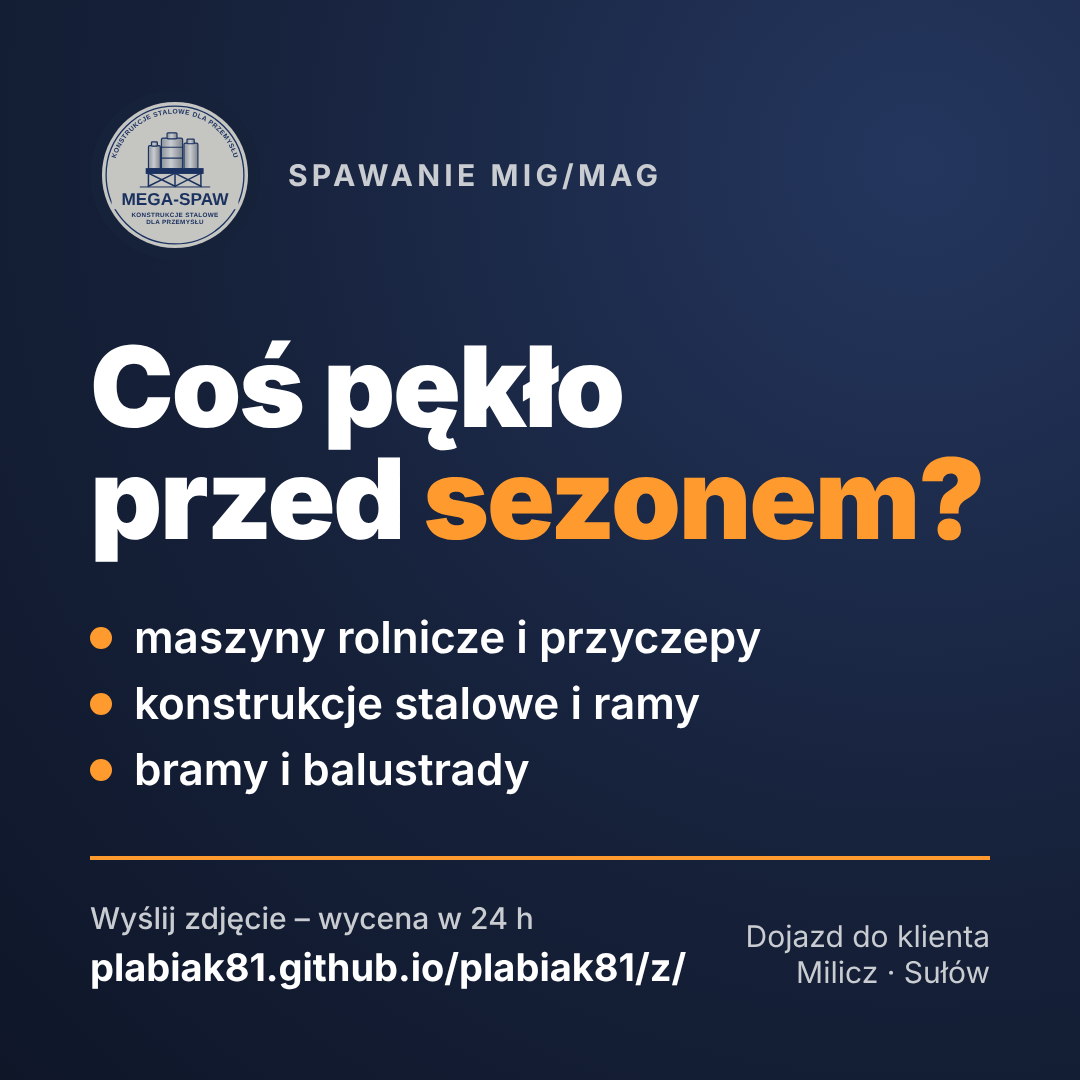
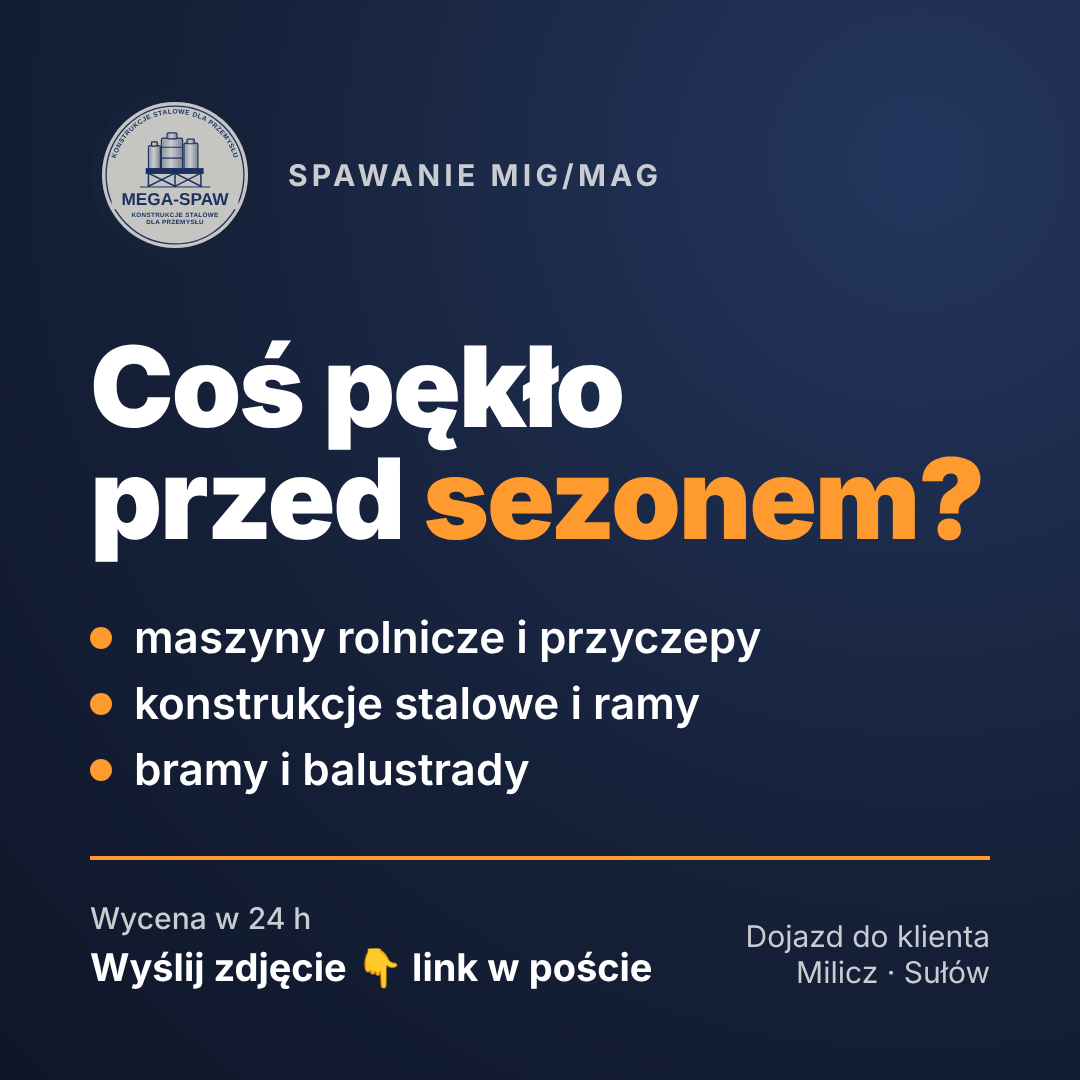
Studio: grafiki MIG/MAG – zamiast długiego linku napis „link w poście”
Claude-Session: https://claude.ai/code/session_018fAWz72vQ8a3EEiUA277fQ

Changed region(s): [[0.0611, 0.825, 0.6417, 0.9167]]

diff --git a/studio/projekty/2026-11-26-spawanie-mig-mag-ogloszenie/grafiki.html b/studio/projekty/2026-11-26-spawanie-mig-mag-ogloszenie/grafiki.html
@@ -36,7 +36,7 @@
     <li>bramy i balustrady</li>
   </ul>
   <div class="bottom">
-    <div class="cta"><small>Wyślij zdjęcie – wycena w 24 h</small>plabiak81.github.io/plabiak81/z/</div>
+    <div class="cta"><small>Wycena w 24 h</small>Wyślij zdjęcie 👇 link w poście</div>
     <div class="loc">Dojazd do klienta<br>Milicz · Sułów</div>
   </div>
 </div>
@@ -50,7 +50,7 @@
     <li>maszyny przed sezonem</li>
   </ul>
   <div class="bottom">
-    <div class="cta"><small>Wyślij zdjęcie – wycena w 24 h</small>plabiak81.github.io/plabiak81/z/</div>
+    <div class="cta"><small>Wycena w 24 h</small>Wyślij zdjęcie 👇 link w poście</div>
     <div class="loc">Dojazd do klienta<br>Milicz · Sułów</div>
   </div>
 </div>
